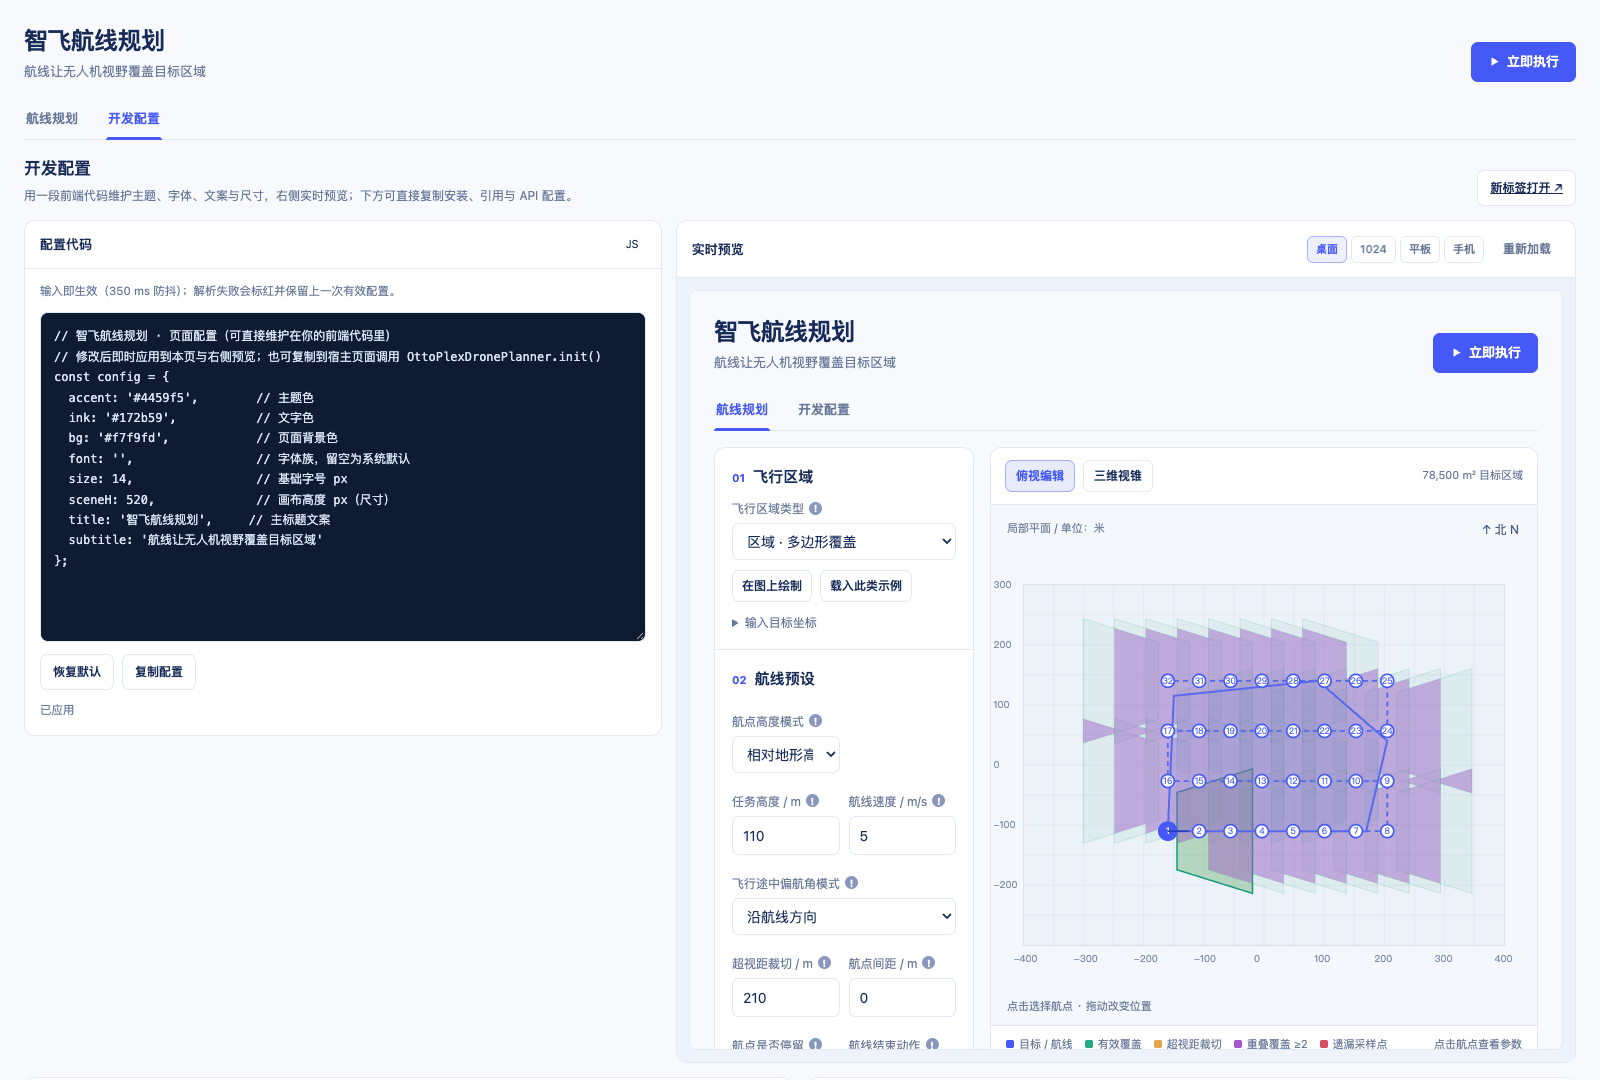
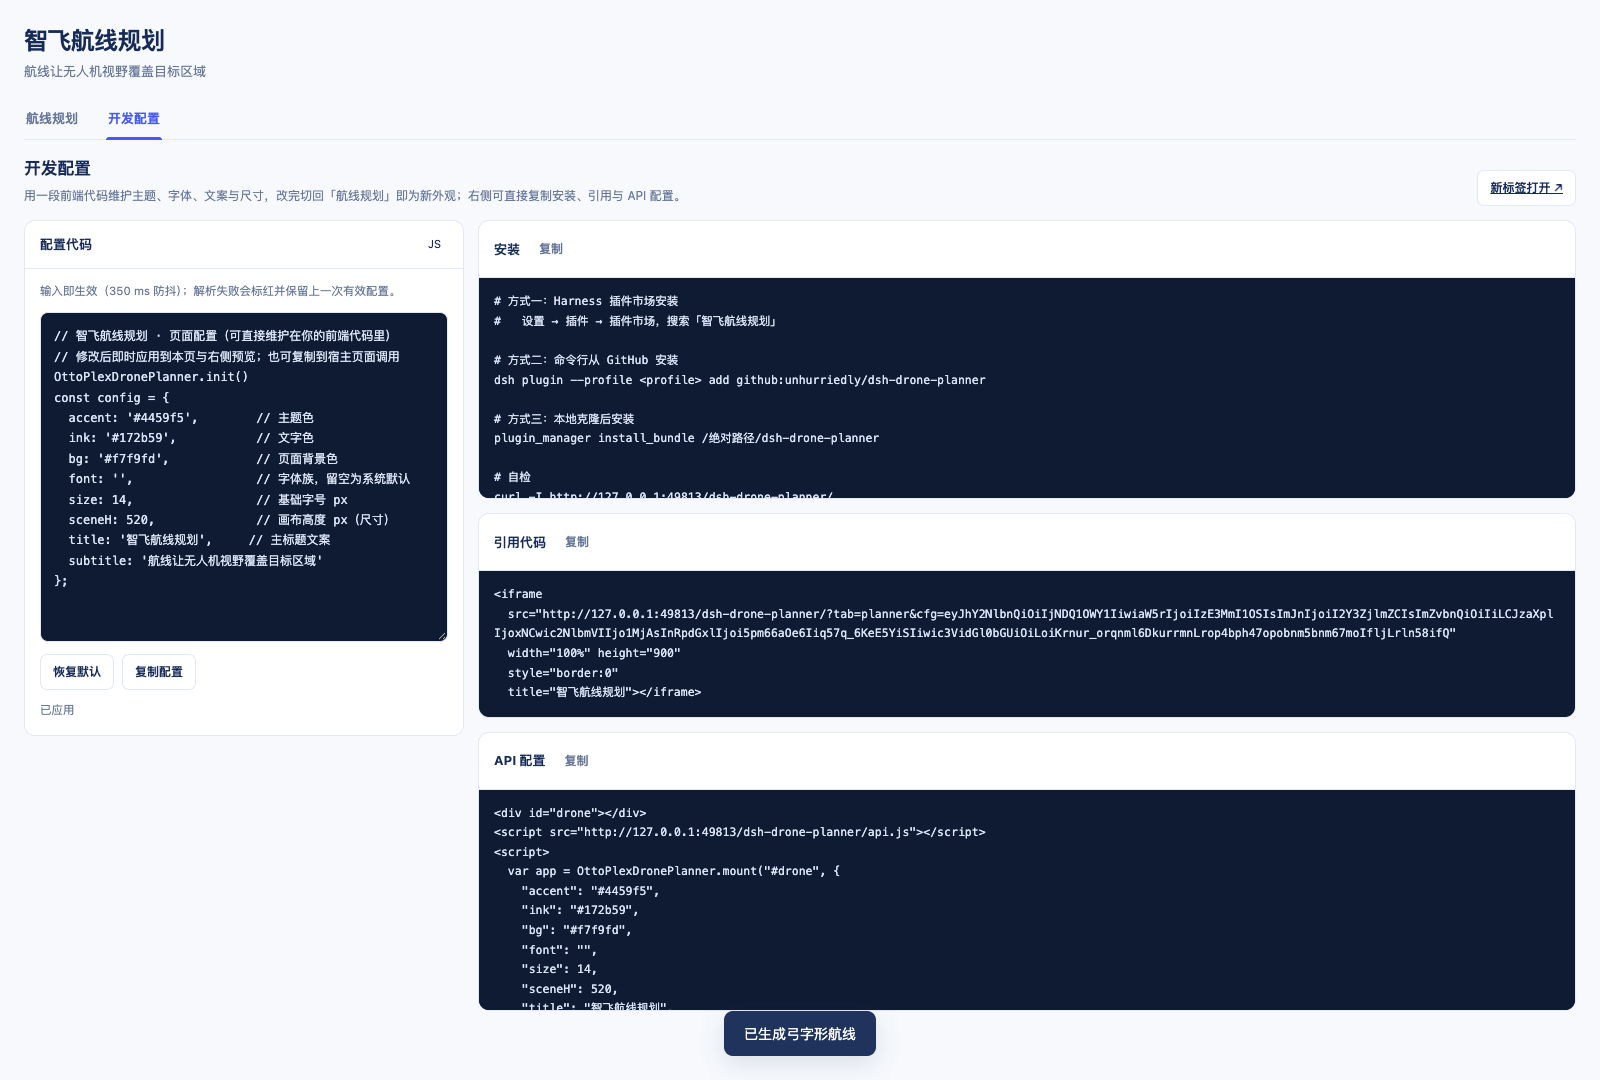
Remove live preview from dev tab; move 立即执行 into the planner canvas toolbar (v1.2.1)

diff --git a/page/index.html b/page/index.html
@@ -8,7 +8,7 @@
 .overlap-summary{display:flex;gap:14px;align-items:center;flex-wrap:wrap;padding:12px 16px;border-bottom:1px solid var(--line);font-size:12px;color:var(--muted)}.overlap-summary strong{color:#8a40ab;font-variant-numeric:tabular-nums}.spacing-conflict{color:var(--red)}[hidden]{display:none!important}.center,.planner,.inspector{min-width:0}.result-status.warning{background:#fff7e9;color:#925a16}.result-status.error{background:#fff0f3;color:#ae3450}
 .risk-body{padding:4px 0}.risk-row{display:flex;flex-wrap:wrap;gap:8px;align-items:center;padding:10px 15px;border-bottom:1px solid var(--line);font-size:12px;color:var(--muted)}.risk-row:last-child{border:0}.risk-tag{padding:2px 8px;border-radius:999px;font-size:11px;white-space:nowrap}.risk-warn{color:#925a16;background:#fff7e9}.risk-ok{color:#287961;background:#edf9f4}.risk-details{padding:6px 15px 10px}.risk-details .pair{padding-top:4px}.act-row{display:grid;grid-template-columns:minmax(0,1fr) 86px auto auto auto;gap:6px;align-items:center;margin-bottom:7px}.act-row[data-blocked="1"]{opacity:.55}.act-row select,.act-row input{padding:6px 8px;font-size:12px}.act-noparam{text-align:center;color:var(--muted)}
 .risk-bar{display:flex;flex-wrap:wrap;gap:8px;align-items:center;padding:10px 15px;font-size:12px;color:var(--muted)}.risk-item{display:inline-flex;align-items:center;gap:6px;padding:4px 10px;border-radius:7px;background:var(--soft);color:#4a5b86}.risk-item.warn{background:#fde8ed;border:1px solid #f4b8c6;color:#c0324d;font-weight:600}.risk-item b{font-variant-numeric:tabular-nums}.risk-bar .risk-details{margin-left:auto}.risk-bar .risk-details[open]{width:100%}.risk-bar .risk-details .pair{max-width:420px;padding-top:6px}
-.heading-actions{display:flex;align-items:center;gap:10px;flex-wrap:wrap;justify-content:flex-end}.exec-button{display:inline-flex;align-items:center;gap:6px;padding:9px 16px;font-size:13px;font-weight:600;white-space:nowrap}.exec-button svg{display:block;flex:none}@media(max-width:720px){.heading-actions{justify-content:flex-start}}.fi{display:inline-flex;align-items:center;justify-content:center;width:13px;height:13px;margin-left:5px;border-radius:50%;background:#8a97bd;color:#fff;font-style:normal;font-size:10px;font-weight:700;line-height:1;cursor:help;vertical-align:1px;flex:none}.fi:hover,.fi:focus-visible{background:var(--blue);outline:none}#fieldTip{position:fixed;z-index:80;max-width:300px;padding:8px 11px;border-radius:8px;background:#1f335d;color:#fff;font-size:11.5px;line-height:1.65;box-shadow:0 8px 22px #172b5940;pointer-events:none;display:none}#fieldTip.show{display:block}
+.toolbar-actions{display:flex;align-items:center;gap:10px;margin-left:auto;flex-wrap:wrap}.exec-button{display:inline-flex;align-items:center;gap:6px;padding:9px 16px;font-size:13px;font-weight:600;white-space:nowrap}.exec-button svg{display:block;flex:none}@media(max-width:720px){.toolbar-actions{width:100%;justify-content:flex-start}}.fi{display:inline-flex;align-items:center;justify-content:center;width:13px;height:13px;margin-left:5px;border-radius:50%;background:#8a97bd;color:#fff;font-style:normal;font-size:10px;font-weight:700;line-height:1;cursor:help;vertical-align:1px;flex:none}.fi:hover,.fi:focus-visible{background:var(--blue);outline:none}#fieldTip{position:fixed;z-index:80;max-width:300px;padding:8px 11px;border-radius:8px;background:#1f335d;color:#fff;font-size:11.5px;line-height:1.65;box-shadow:0 8px 22px #172b5940;pointer-events:none;display:none}#fieldTip.show{display:block}
 /* module tabs — 参考 vision-model 的 module-tabs 结构 */
 .module-tabs{display:flex;gap:26px;border-bottom:1px solid var(--line);margin:0 0 16px}
 .module-tabs button{position:relative;display:inline-flex;align-items:center;padding:12px 2px 14px;border:0;border-radius:0;background:transparent;font-size:13px;font-weight:600;color:var(--muted);line-height:1}
@@ -28,29 +28,22 @@
 .panel-heading{display:flex;align-items:center;gap:10px;padding:12px 15px;border-bottom:1px solid var(--line)}
 .panel-heading h2{margin:0;font-size:13px}
 .panel-heading .pill{margin-left:auto;font-size:11px;padding:3px 7px}
-.dev-layout{display:grid;grid-template-columns:minmax(320px,.85fr) minmax(0,1.2fr);gap:14px;align-items:start}
+.dev-layout{display:grid;grid-template-columns:minmax(320px,440px) minmax(0,1fr);gap:14px;align-items:start}
 .dev-editor{display:flex;flex-direction:column;min-width:0}
 .dev-note{margin:12px 15px 0;font-size:11.5px;color:var(--muted);line-height:1.7}
 #cfgCode{display:block;margin:12px 15px 0;width:calc(100% - 30px);min-height:330px;resize:vertical;padding:13px;border:1px solid var(--line);border-radius:8px;background:#0f1b33;color:#dbe4f7;font:12px/1.7 ui-monospace,SFMono-Regular,Menlo,monospace;tab-size:2}
 .dev-actions{display:flex;gap:8px;flex-wrap:wrap;padding:12px 15px 0}
 #cfgStatus{margin:10px 15px 15px;font-size:11.5px;color:var(--muted);line-height:1.7}
 #cfgStatus.bad{color:var(--red);font-weight:600}
-.dev-preview{min-width:0}
-.devices{display:flex;gap:4px;margin-left:auto}
-.devices button{padding:4px 8px;border:1px solid var(--line);border-radius:6px;background:#fff;font-size:11px;color:var(--muted)}
-.devices button.active{border-color:#a6b0ff;background:var(--soft);color:var(--blue);font-weight:600}
-.frame-wrap{padding:12px;background:#eef2fa;display:flex;justify-content:center}
-#previewFrame{width:100%;height:min(72vh,760px);border:1px solid var(--line);border-radius:8px;background:#fff}
-.dev-code{display:grid;grid-template-columns:1fr 1fr;gap:14px;margin-top:14px}
-.dev-code .span-two{grid-column:1/-1}
+.dev-code-column{display:flex;flex-direction:column;gap:14px;min-width:0}
 .dev-code pre{margin:0;padding:14px 15px;background:#0f1b33;color:#dbe4f7;font:11.5px/1.7 ui-monospace,SFMono-Regular,Menlo,monospace;overflow:auto;white-space:pre-wrap;word-break:break-all;max-height:220px}
-@media(max-width:1080px){.dev-layout{grid-template-columns:1fr}.dev-code{grid-template-columns:1fr}}
+@media(max-width:1080px){.dev-layout{grid-template-columns:1fr}}
 @media(max-width:720px){.module-tabs{gap:20px}.module-tabs button{font-size:12.5px}}
 </style>
 </head>
 <body>
 <main>
-<div class="heading"><div><h1>智飞航线规划</h1><p>航线让无人机视野覆盖目标区域</p></div><div class="heading-actions"><span class="tiny" id="planState" role="status">准备规划</span><button id="executeNow" type="button" class="primary exec-button" title="示意按钮，不会执行真实飞行"><svg width="13" height="13" viewBox="0 0 16 16" fill="none" aria-hidden="true"><path d="M4.2 2.8 13 8l-8.8 5.2V2.8Z" fill="currentColor"/></svg>立即执行</button></div></div>
+<div class="heading"><div><h1>智飞航线规划</h1><p>航线让无人机视野覆盖目标区域</p></div></div>
 <div class="module-tabs" role="tablist" aria-label="功能模块">
 <button id="tab-planner" class="active" role="tab" aria-selected="true" aria-controls="planner-page" tabindex="0" data-page="planner">航线规划</button>
 <button id="tab-dev" role="tab" aria-selected="false" aria-controls="dev-page" tabindex="-1" data-page="dev">开发配置</button>
@@ -202,8 +195,11 @@
 <button id="topView" class="active" aria-pressed="true">俯视编辑</button>
 <button id="threeView" aria-pressed="false">三维视锥</button>
 </div>
-<span id="targetSummary" class="tiny">
-</span>
+<div class="toolbar-actions">
+<span id="targetSummary" class="tiny"></span>
+<span id="planState" class="tiny" role="status">准备规划</span>
+<button id="executeNow" type="button" class="primary exec-button" title="示意按钮，不会执行真实飞行"><svg width="13" height="13" viewBox="0 0 16 16" fill="none" aria-hidden="true"><path d="M4.2 2.8 13 8l-8.8 5.2V2.8Z" fill="currentColor"/></svg>立即执行</button>
+</div>
 </div>
 <div id="drawBar" hidden>
 <span id="drawHint">点击添加顶点</span>
@@ -397,7 +393,7 @@
 <div class="integration-heading">
 <div>
 <h2>开发配置</h2>
-<p>用一段前端代码维护主题、字体、文案与尺寸，右侧实时预览；下方可直接复制安装、引用与 API 配置。</p>
+<p>用一段前端代码维护主题、字体、文案与尺寸，改完切回「航线规划」即为新外观；右侧可直接复制安装、引用与 API 配置。</p>
 </div>
 <a class="button secondary" id="openOfficial" href="?tab=planner" target="_blank" rel="noopener">新标签打开 ↗</a>
 </div>
@@ -415,21 +411,7 @@
 </div>
 <p id="cfgStatus" role="status">已应用</p>
 </section>
-<section class="panel dev-preview">
-<div class="panel-heading">
-<h2>实时预览</h2>
-<div class="devices">
-<button data-w="1280" class="active" type="button">桌面</button>
-<button data-w="1024" type="button">1024</button>
-<button data-w="768" type="button">平板</button>
-<button data-w="390" type="button">手机</button>
-</div>
-<button class="button text" id="reloadPreview" type="button">重新加载</button>
-</div>
-<div class="frame-wrap"><iframe id="previewFrame" src="?tab=planner" title="航线规划预览"></iframe></div>
-</section>
-</div>
-<div class="dev-code">
+<div class="dev-code dev-code-column">
 <section class="panel">
 <div class="panel-heading">
 <h2>安装</h2>
@@ -444,7 +426,7 @@
 </div>
 <pre id="codeIframe"></pre>
 </section>
-<section class="panel span-two">
+<section class="panel">
 <div class="panel-heading">
 <h2>API 配置</h2>
 <button class="button text" data-copy="codeApi" type="button">复制</button>
@@ -674,14 +656,12 @@ const DEV_DEFAULT_CODE=[
   '};'
 ].join('\n');
 let devCfg={...DEV_DEFAULTS};
-const devFrame=document.getElementById('previewFrame');
 function devBase(){return location.origin+location.pathname;}
 function devB64(obj){
   const bytes=new TextEncoder().encode(JSON.stringify(obj)),bin=String.fromCharCode(...bytes);
   return btoa(bin).replace(/\+/g,'-').replace(/\//g,'_').replace(/=+$/,'');
 }
 function devStatus(text,bad){const el=document.getElementById('cfgStatus');el.textContent=text;el.className=bad?'bad':'';}
-function devSend(){if(devFrame&&devFrame.contentWindow)devFrame.contentWindow.postMessage({type:'otp:config',cfg:devCfg},'*');}
 function devSnippets(){
   const embed=devBase(),url=embed+'?tab=planner&cfg='+devB64(devCfg);
   document.getElementById('codeInstall').textContent='# 方式一：Harness 插件市场安装\n#   设置 → 插件 → 插件市场，搜索「智飞航线规划」\n\n# 方式二：命令行从 GitHub 安装\ndsh plugin --profile <profile> add github:unhurriedly/dsh-drone-planner\n\n# 方式三：本地克隆后安装\nplugin_manager install_bundle /绝对路径/dsh-drone-planner\n\n# 自检\ncurl -I '+embed;
@@ -689,7 +669,6 @@ function devSnippets(){
   const S='<'+'script', E='<'+'/'+'script>';
   document.getElementById('codeApi').textContent='<div id="drone"></div>\n'+S+' src="'+embed.replace(/[^/]*$/,'api.js')+'">'+E+'\n'+S+'>\n  var app = OttoPlexDronePlanner.mount("#drone", '+JSON.stringify(devCfg,null,2).replace(/\n/g,'\n  ')+');\n  app.apply({ title: "新的标题" }); // 不重载即可热更新\n'+E;
   document.getElementById('openOfficial').href=embed+'?tab=planner';
-  if(devFrame)devFrame.title='航线规划预览';
 }
 function devApply(){
   const text=document.getElementById('cfgCode').value;
@@ -700,7 +679,6 @@ function devApply(){
     if(!parsed||typeof parsed!=='object'||Array.isArray(parsed))throw new Error('配置需要是一个对象');
     devCfg={...DEV_DEFAULTS,...parsed};
     applyCfg(devCfg);      // 本页立即生效（切到「航线规划」即是新样式）
-    devSend();             // 右侧预览同步
     devSnippets();
     devStatus('已应用 · '+new Date().toLocaleTimeString('zh-CN',{hour12:false}));
     return true;
@@ -722,21 +700,10 @@ function copyText(text){
   code.addEventListener('input',()=>{clearTimeout(timer);timer=setTimeout(devApply,350);});
   document.getElementById('resetConfig').addEventListener('click',()=>{code.value=DEV_DEFAULT_CODE;devApply();});
   document.getElementById('copyConfig').addEventListener('click',()=>copyText(code.value));
-  document.getElementById('reloadPreview').addEventListener('click',()=>{devFrame.src=devBase()+'?tab=planner&cfg='+devB64(devCfg)+'&t='+Date.now();});
-  document.querySelectorAll('.devices button').forEach(btn=>{
-    btn.addEventListener('click',()=>{
-      document.querySelectorAll('.devices button').forEach(x=>x.classList.remove('active'));
-      btn.classList.add('active');
-      const w=+btn.dataset.w;
-      devFrame.style.width=w>=1100?'100%':w+'px';
-      devFrame.style.maxWidth='100%';
-    });
-  });
   document.addEventListener('click',event=>{
     const btn=event.target.closest('[data-copy]');
     if(btn)copyText(document.getElementById(btn.dataset.copy).textContent);
   });
-  devFrame.addEventListener('load',()=>devSend());
   goPage(readTab());
   devSnippets();
   window.OttoPlexDev={getConfig:()=>devCfg,setCode(code2){code.value=code2;devApply();},apply:devApply};

diff --git a/README.md b/README.md
@@ -10,9 +10,13 @@
 | Tab | 地址 | 用途 |
 | --- | --- | --- |
 | 航线规划 | `/dsh-drone-planner/`、`/dsh-drone-planner/?tab=planner` | 业务界面：飞行区域、航线预设、航线规划、航点编辑 |
-| 开发配置 | `/dsh-drone-planner/?tab=dev` | 配置代码、实时预览、安装/引用/API 代码复制 |
+| 开发配置 | `/dsh-drone-planner/?tab=dev` | 配置代码、安装/引用/API 代码复制 |
 
 旧的 `/dsh-drone-planner/dev.html` 路由仍然保留，只做跳转到 `?tab=dev`。
+
+「立即执行」按钮属于**航线规划** tab，位于画布工具条右侧（俯视 / 三维切换旁边，
+与目标范围摘要、规划状态同一行）：看到航线后就在同一视角里执行。它是界面示意，
+点击只提示不会执行真实飞行。
 
 面板内容就是 `page/index.html` 本身（单文件、离线、自包含），所以画布绘制、航线生成、
 逐点编辑、三维视锥、超视距裁切、重叠区域与风险评估都与浏览器直接打开完全一致。
@@ -128,13 +132,11 @@ cd dsh-drone-planner && git pull
      subtitle: '航线让无人机视野覆盖目标区域'
    };
    ```
-2. **实时预览**（右）：同源 iframe 跑「航线规划」tab，配置改动即时应用；
-   可切换 1280/1024/768/390 宽度验证响应式，也可「重新加载」。
-3. **代码接入**（下方三块）：安装命令、iframe 引用代码、`api.js` API 配置，各带复制按钮；
+2. **代码接入**（右，三块纵向排列）：安装命令、iframe 引用代码、`api.js` API 配置，各带复制按钮；
    引用地址里的 `?cfg=` 是当前配置的 URL-safe base64 编码。
 
-配置同时作用于**本页**：在「开发配置」里改完，切回「航线规划」tab 看到的就是新样式
-（画布高度变化后会自动重绘）。
+**没有独立的预览窗**：配置直接作用于本页，改完切回「航线规划」tab 就是新样式
+（画布高度变化会自动重绘）。因此看到的始终是真实页面，而不是缩小版预览。
 
 右上角「新标签打开 ↗」在新标签页打开 `?tab=planner`；若浏览器或沙箱拦截弹窗，
 会自动降级为当前页打开并提示。
@@ -182,7 +184,7 @@ cd dsh-drone-planner && git pull
 | `page/api.js` | 嵌入加载器 `OttoPlexDronePlanner.mount/apply` |
 | `check-redesign.cjs` | 函数级验收（几何、斜面、圆柱螺旋、弓字形扫描等） |
 | `check-defaults.cjs` | 浏览器验收（默认值、航线形态、响应式对齐） |
-| `check-dev-mode.cjs` | 浏览器验收（单页两 tab、开发配置、预览、代码接入） |
+| `check-dev-mode.cjs` | 浏览器验收（单页两 tab、开发配置、立即执行归属、代码接入） |
 | `locale/zh.json`、`locale/en.json` | 插件管理里显示的标题与说明 |
 | `icon.svg` | 侧边栏与详情页图标 |
 
